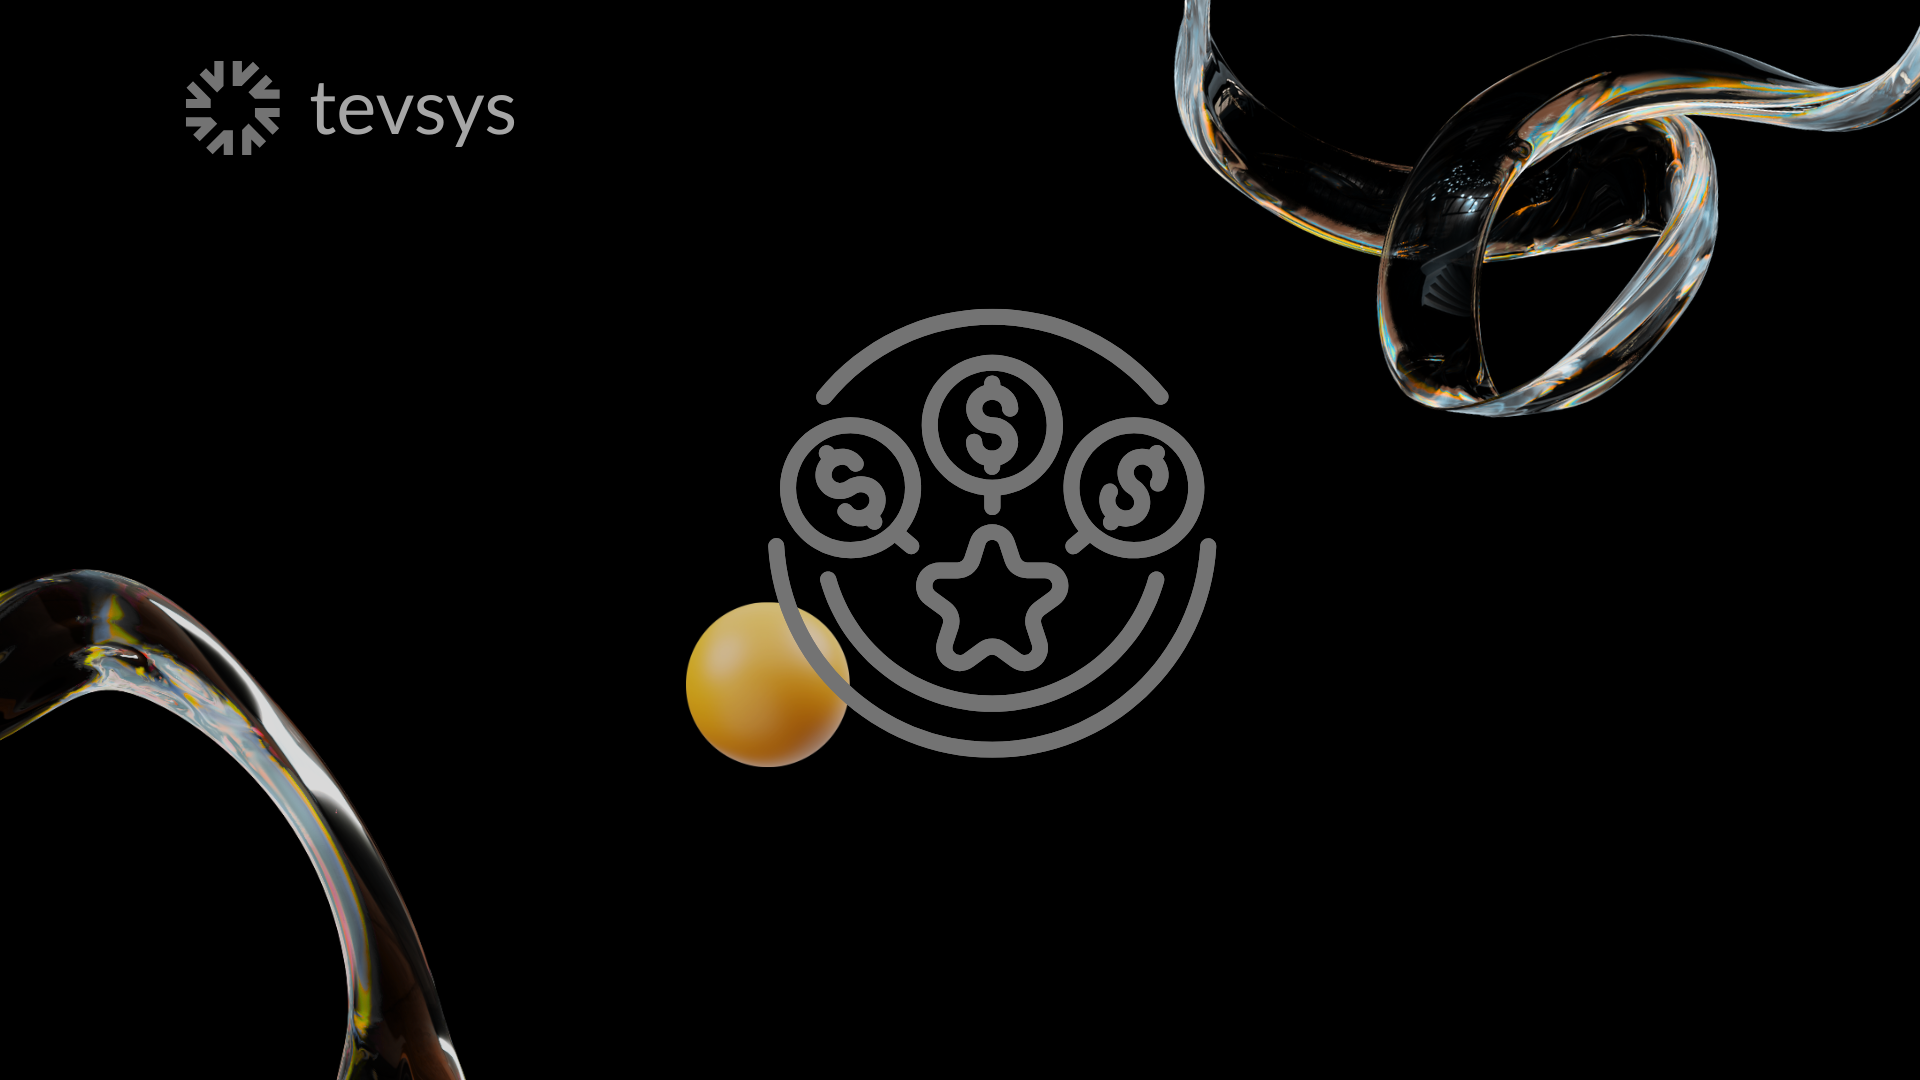
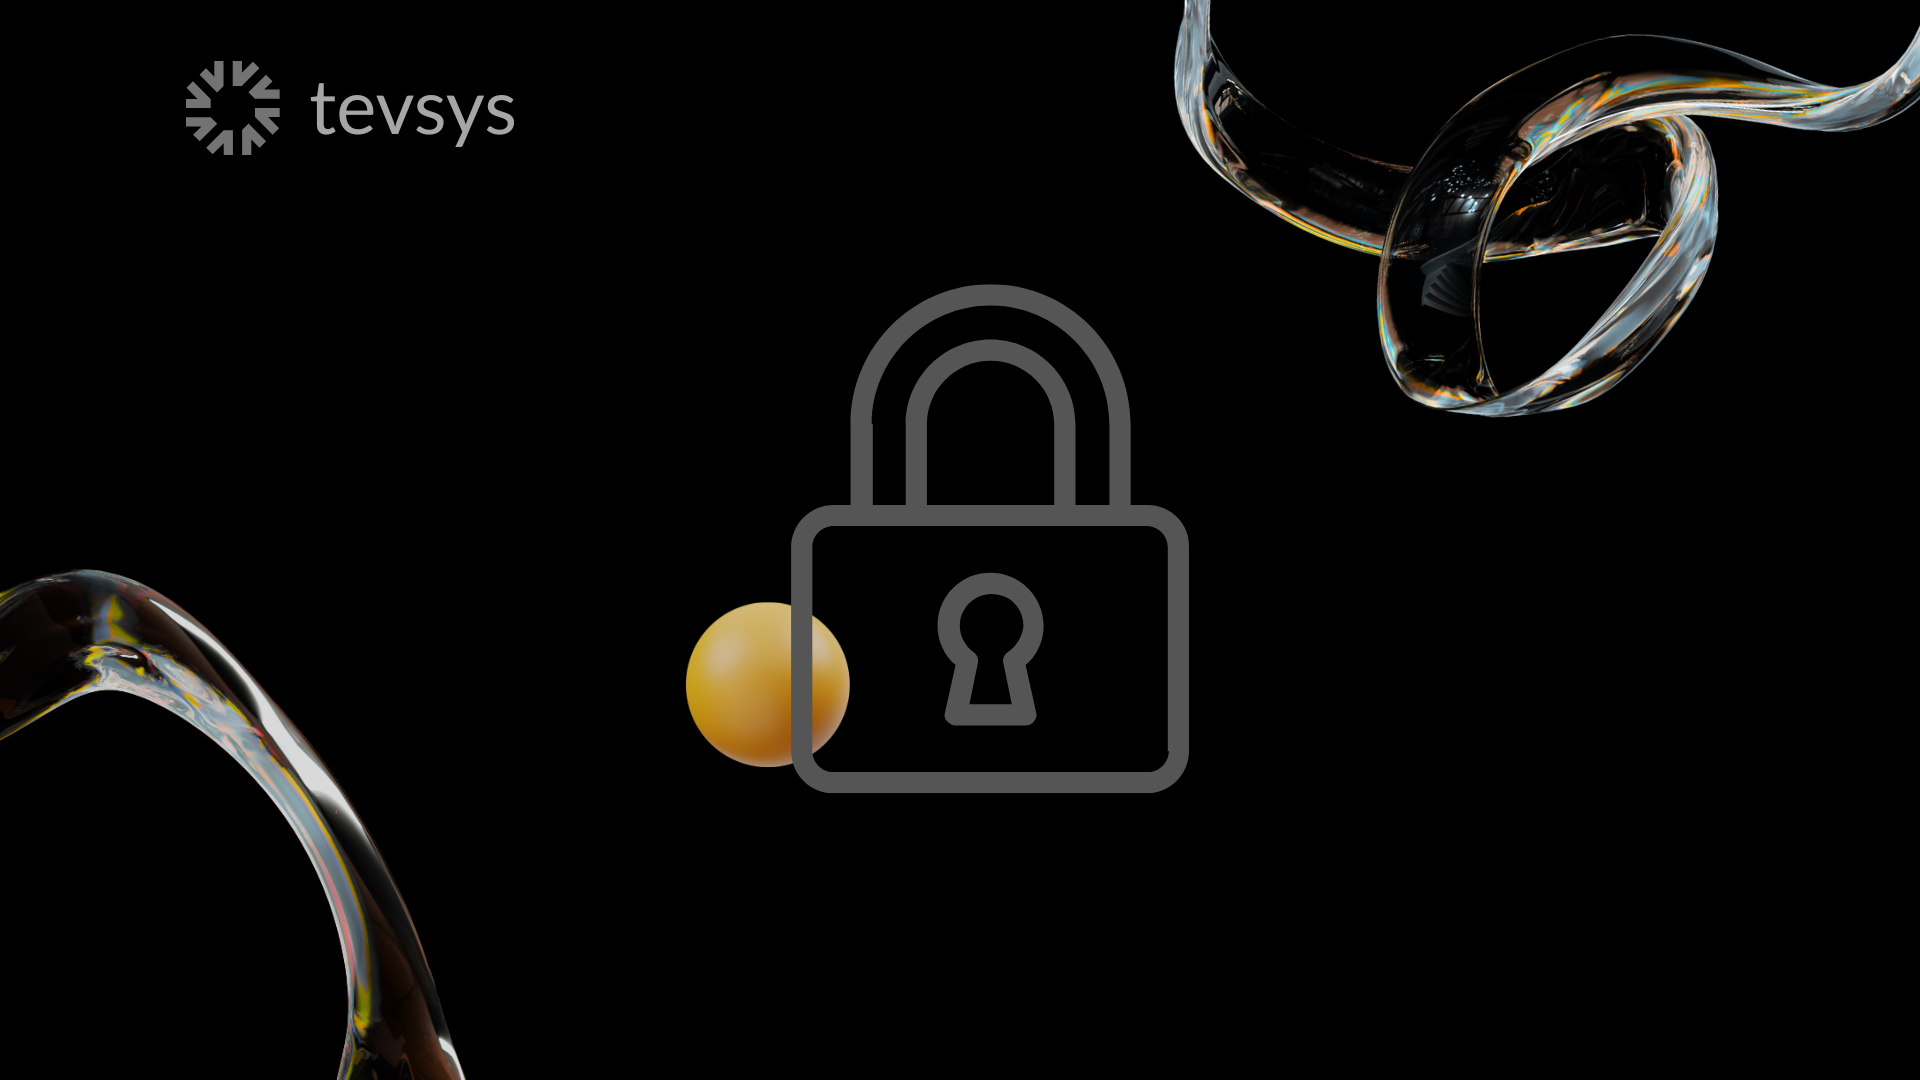
feat(web): card HyperClose — candado (card-2-hyperclose v9) + docs

Changed region(s): [[0.375, 0.2444, 0.6562, 0.7333]]

diff --git a/docs/CHANGELOG-TEVSYS.md b/docs/CHANGELOG-TEVSYS.md
@@ -17,6 +17,19 @@ Registro completo de cambios aplicados en la landing de tevsys (base Odyssey The
 
 ---
 
+## Home — card 2 (HyperClose): candado cerrado (19 abr 2026)
+
+**Motivo:** Sustituir ilustración anterior más genérica por **candado cerrado** (bloqueo coherente con HyperClose). Alineación con **hero** (candado) y con **panel / gráficos del EA**, donde el candado es señal reconocible.
+
+| Área | Detalle |
+|------|--------|
+| **Asset** | `public/assets/images/home/cards/card-2-hyperclose.png` — export usuario (`Downloads/card-2-hyperclose.png`). |
+| **Web** | `src/pages/index.astro` — **cache-bust `?v=9`**. |
+
+**Doc:** `HOME_HERO_CARDS_ITERACION_ABR2026.md` §3, `CONTENIDO_WEB_TEVSYS_LANDING.md`, `ARREGLOS_WEB_TEVSYS_TODOS_LOS_ARCHIVOS.md`.
+
+---
+
 ## Web — coherencia tipográfica, hero, cards, CTAs y micropáginas (19 abr 2026)
 
 **Objetivo:** Una sola lectura de producto (Inter + DM Sans solo en H1 home), negro unificado, CTAs demo idénticos, micropáginas alineadas y documentación al día con decisiones recientes.
@@ -27,7 +40,7 @@ Registro completo de cambios aplicados en la landing de tevsys (base Odyssey The
 | **H1 hero** | **DM Sans** solo en `.hero-title` (se probó Plus Jakarta Sans, descartada). Resto del hero y header siguen en **Inter**. Google Fonts: `DM+Sans` + `Inter` en `BaseHead.astro`. | `BaseHead.astro`, `HomeHeroSection.astro` |
 | **Imagen mano** | Viñeta más suave; filtros para nitidez; marco exterior del recorte con **animación opcional** de brillo (reduced-motion sin animación); sin marcos CSS que imiten óvalos del PNG. | `HomeHeroSection.astro` |
 | **Escáner header (home)** | **Intensidad restaurada** respecto a la iteración “menos discoteca”: más opacidad, gradientes y `animation-duration` algo más cortas (escritorio/móvil) para dar “vida” sin tocar filosofía del motion. | `global.css` |
-| **Cards home** | Nuevos PNG en `public/.../card-*.png`; **cache-bust** en `index.astro` (card 1 **`?v=8`** desde engranaje motor; otras cards según iteración). Cintas retocadas en origen (tonos ámbar/gris/negro, sin arcoíris). **Lectura:** `feature-card__value-accent` en cuerpo — **71 operativas**, **no poder seguir**, **mín. 75 % protegido** (misma línea que evidencia `0,0072 %`). | `index.astro`, assets |
+| **Cards home** | Nuevos PNG en `public/.../card-*.png`; **cache-bust** en `index.astro` (card 1 **`?v=8`** engranaje; card 2 **`?v=9`** candado HyperClose; otras según iteración). Cintas retocadas en origen (tonos ámbar/gris/negro, sin arcoíris). **Lectura:** `feature-card__value-accent` en cuerpo — **71 operativas**, **no poder seguir**, **mín. 75 % protegido** (misma línea que evidencia `0,0072 %`). | `index.astro`, assets |
 | **Tema oscuro — tipografía global** | **`[data-theme='dark']`:** `--theme-font-family-sans` y `--theme-font-family-serif` → **Inter** (antes Lato + Roboto Serif en cuerpo/títulos); micropáginas y `h1`–`h3` alineados con la home. | `theme.css` |
 | **CTAs demo** | Reglas globales: mismo **Inter 1rem**, padding, radio, colores y hover para `hero-download-btn`, `feature-cta__button`, `precios-cta__button`, `plan-card__cta` (excepto secundario outline). | `global.css`; estilos locales duplicados retirados en varias páginas |
 | **Contacto / demo** | Bloque izquierdo + columna formulario con **Inter** explícito (alineación con micro-páginas). | `contact.astro` |

diff --git a/docs/HOME_HERO_CARDS_ITERACION_ABR2026.md b/docs/HOME_HERO_CARDS_ITERACION_ABR2026.md
@@ -1,6 +1,6 @@
 # Home, hero, header y cards — iteración abril 2026 (confirmado)
 
-Documento de referencia para lo acordado y aplicado en código hasta **abr 2026**. **19 abr 2026:** coherencia tipográfica global (tema oscuro), hero (H1 DM Sans, stack `#000`), escáner con intensidad restaurada, CTAs demo unificados, respiro `.feature-hero` en micropáginas; **card 1 (Precisión)** — ilustración **engranajes + esfera** (motor / coherencia con icono EA fin de semana), **`card-1-input.png?v=8`**. Estado: **cards** con assets y lectura reforzada; **siguiente fase:** mensajes finales + ajustes menores si hace falta.
+Documento de referencia para lo acordado y aplicado en código hasta **abr 2026**. **19 abr 2026:** coherencia tipográfica global (tema oscuro), hero (H1 DM Sans, stack `#000`), escáner con intensidad restaurada, CTAs demo unificados, respiro `.feature-hero` en micropáginas; **card 1 (Precisión)** — **engranajes + esfera**, **`card-1-input.png?v=8`**; **card 2 (HyperClose)** — **candado cerrado** (alineado panel/EA + hero), **`card-2-hyperclose.png?v=9`**. Estado: **cards** con assets y lectura reforzada; **siguiente fase:** mensajes finales + ajustes menores si hace falta.
 
 **Repos / rutas:** proyecto `tevsys-landiing` (Astro). Imágenes públicas bajo `public/assets/...`.
 
@@ -48,6 +48,7 @@ Documento de referencia para lo acordado y aplicado en código hasta **abr 2026*
 | **Zona imagen** | `background-color: var(--theme-bg)`. **`img`:** mismo `filter` que la mano del hero (`brightness(0.91) saturate(0.97) contrast(1.04)`); hover un poco más vivo; **contraste ≥1** para no parecer borroso. PNG/Canva sigue siendo la base. **19 abr 2026:** renovación de assets; **card 1** — **`?v=8`** (`engranaje motor`). |
 | **Zona texto** | Fondo ~`hsl(0, 0%, 6%)` (más cerca del `--theme-bg` ~2% L); párrafos con tamaño, peso 500, color explícito; **hooks** `.feature-card__hook` con **opacity: 1** dentro de cards (la regla global con 0.9 apagaba el texto). **H3** con peso 700. **Lectura reforzada:** clase `.feature-card__value-accent` en cuerpo — **71 operativas**, **no poder seguir**, **mín. 75 % protegido** (misma línea que evidencia `0,0072 %`). |
 | **Card 1 (Precisión)** | Ilustración **engranajes + esfera ámbar** (motor / ajuste en tiempo real); alineada al **icono engranaje** del EA en configuración fin de semana (vs candado en operativa). Solo **PNG** en `<img>` (WebP opcional tras `optimize-images.js`). Sustituye diseño anterior con alcancía. |
+| **Card 2 (HyperClose)** | Ilustración **candado cerrado** + esfera; coherente con **bloqueo** de HyperClose y con candado en **panel/gráficos EA** y hero. **`card-2-hyperclose.png?v=9`**. |
 | **Planes (misma página)** | Fondo y borde/sombra alineados a las cards de valor (`hsl(0,0%,6%)`, halo suave). CTA primario alineado al estilo global de demo (ver **CTAs** abajo). |
 | **CTAs “Descargar demo” / planes** | Reglas compartidas en `global.css` para `a.hero-download-btn`, `a.feature-cta__button`, `a.precios-cta__button`, `a.plan-card__cta:not(.secondary)` — misma tipografía (**Inter 1rem**), padding, radio, color y hover; duplicados locales retirados donde aplica. |
 | **Móvil** | Imagen de card con `aspect-ratio` y `max-height` acotados. |

diff --git a/docs/ARREGLOS_WEB_TEVSYS_TODOS_LOS_ARCHIVOS.md b/docs/ARREGLOS_WEB_TEVSYS_TODOS_LOS_ARCHIVOS.md
@@ -18,7 +18,7 @@ Resumen técnico completo para revisión interna / DeepSeq.
 | `src/components/core/Header.astro` | Estilos del CTA en nav (botón blanco redondeado). **Abr 2026:** Inter, barra más baja, nav refinada; en `/` clase `tevsys-header--home-scanner` + capa escáner; motion escáner vía `global.css`. |
 | `src/components/head/BaseHead.astro` | Fuentes: **Inter**, **DM Sans** (H1 hero), Outfit según tema. **19 abr 2026:** carga alineada a tipografía hero + micropáginas. **Schema** JSON-LD, **preload** LCP hero WebP (home). |
 | `src/components/sections/heros/HomeHeroSection.astro` | Hero Mar 2026: imagen `mano robotica central web.png`, grid 1fr/2fr, alineación con «T», logo en etiqueta. Reflexión + commits: `REFLEXION_DISENO_HERO_FOOTER_MAR2026.md`, `CHANGELOG-TEVSYS.md` §27. **Abr 2026:** `hero-context-line`, ritmo vertical, halo, imagen con radio/filtros/viñeta. **19 abr 2026:** H1 **DM Sans** (`.hero-title`), mano/viñeta/marco iterados. |
-| `src/pages/index.astro` | 4 cards de valor (2x2), textos finales, imágenes nuevas, sección de planes con CTA por plan e imágenes finales. **Abr 2026:** marcado `tevsys-home-*`; Inter, cards/planes tonos gris oscuro, estructura card sin franja, legibilidad texto, card 1 PNG. **19 abr 2026:** accents `.feature-card__value-accent`; CTA planes secundario con estilo local donde aplica. **Card 1 Precisión:** `card-1-input.png` engranaje motor; **`?v=8`**. |
+| `src/pages/index.astro` | 4 cards de valor (2x2), textos finales, imágenes nuevas, sección de planes con CTA por plan e imágenes finales. **Abr 2026:** marcado `tevsys-home-*`; Inter, cards/planes tonos gris oscuro, estructura card sin franja, legibilidad texto, card 1 PNG. **19 abr 2026:** accents `.feature-card__value-accent`; CTA planes secundario con estilo local donde aplica. **Card 1 Precisión:** `card-1-input.png` engranaje; **`?v=8`**. **Card 2 HyperClose:** `card-2-hyperclose.png` candado; **`?v=9`**. |
 | `src/pages/company/contact.astro` | Contacto por plan con título simplificado + visual dinámico por `?plan=` (sin redundancia en encabezado). **19 abr 2026:** **Inter** explícita en copy + formulario (coherencia con micro-páginas). |
 | `src/components/forms/ContactForm.astro` | Badge de plan seleccionado + validación plan/capital + compatibilidad con `flow=demo`. |
 | `public/assets/images/home/cards/*` | Imágenes personalizadas de cards 1-4. |

diff --git a/docs/CONTENIDO_WEB_TEVSYS_LANDING.md b/docs/CONTENIDO_WEB_TEVSYS_LANDING.md
@@ -65,7 +65,7 @@ Documento de contenido/copy actual para revisión de equipo.
 
 ### Cards (4)
 - **UX clicable (Mar 2026):** Flecha "→" esquina inferior derecha, hover marcado (borde amarillo, sombra, elevación). Opción C híbrido.
-- **Diseño abr 2026 (confirmado en código):** Inter en la sección; bloque de texto con gris oscuro (~9% luminosidad); zona ilustración con fondo `var(--theme-bg)`; tipografía cuerpo reforzada (peso/color); card 1 puede servirse solo en PNG mientras se regenera WebP. **19 abr 2026:** card 1 (Precisión) — ilustración **engranajes + esfera** (motor; coherente con icono EA fin de semana); **cache-bust `card-1-input.png?v=8`**; **acentos de lectura** `.feature-card__value-accent` (71 operativas; no poder seguir; mín. 75 % protegido). Detalle: `HOME_HERO_CARDS_ITERACION_ABR2026.md`.
+- **Diseño abr 2026 (confirmado en código):** Inter en la sección; bloque de texto con gris oscuro (~9% luminosidad); zona ilustración con fondo `var(--theme-bg)`; tipografía cuerpo reforzada (peso/color); card 1 puede servirse solo en PNG mientras se regenera WebP. **19 abr 2026:** card 1 (Precisión) — **engranajes + esfera**; **`card-1-input.png?v=8`**; card 2 (HyperClose) — **candado cerrado**; **`card-2-hyperclose.png?v=9`**; **acentos de lectura** `.feature-card__value-accent` (71 operativas; no poder seguir; mín. 75 % protegido). Detalle: `HOME_HERO_CARDS_ITERACION_ABR2026.md`.
 - **CTAs demo (19 abr 2026):** mismas reglas globales para botones demo en hero, features, precios y planes (Inter, padding, hover) — `global.css`; ver `CHANGELOG-TEVSYS.md`.
 - **Tema oscuro — tipografía global (19 abr 2026):** en `[data-theme='dark']`, cuerpo y títulos de micropáginas usan **Inter** vía `theme.css` (antes Lato + Roboto Serif en variables de tema).
 - **Micropáginas — respiro (19 abr 2026):** espaciado bajo `.feature-hero` unificado en `global.css` (mismo criterio en todas las guías).

diff --git a/docs/CARDS-NEXT-PHASE.md b/docs/CARDS-NEXT-PHASE.md
@@ -7,7 +7,7 @@ Este documento reemplaza el enfoque inicial de placeholders y recoge el estado a
 - **Documentación única:** `docs/HOME_HERO_CARDS_ITERACION_ABR2026.md` (hero, header, cards, motion escáner, tema oscuro, CTAs, micropáginas).
 - **Changelog:** `CHANGELOG-TEVSYS.md` (entrada “Home, hero, header y cards — abr 2026” + **“Web — coherencia tipográfica…” — 19 abr 2026**).
 - **Hecho:** refinamiento visual y copy en home (cards + planes en misma página).
-- **19 abr 2026 (cerrado en código + docs):** stack hero **`#000`**; **DM Sans** solo en H1 home; imágenes cards renovadas (**card 1** `card-1-input.png` engranaje motor + **`?v=8`**); **Inter** en tema oscuro global (`theme.css`); CTAs demo unificados (`global.css`); contacto con **Inter** explícita; escáner header con **intensidad restaurada** (duraciones 29,5s / 28s / 23,5s); **`.feature-hero`** con respiro global; **Precisión:** orden demos volatilidad → Nasdaq → cuenta pequeña → logs.
+- **19 abr 2026 (cerrado en código + docs):** stack hero **`#000`**; **DM Sans** solo en H1 home; **card 1** engranaje **`?v=8`**; **card 2** HyperClose candado **`?v=9`**; **Inter** en tema oscuro global (`theme.css`); CTAs demo unificados (`global.css`); contacto con **Inter** explícita; escáner header con **intensidad restaurada** (duraciones 29,5s / 28s / 23,5s); **`.feature-hero`** con respiro global; **Precisión:** orden demos volatilidad → Nasdaq → cuenta pequeña → logs.
 - **Siguiente (equipo):** decidir **qué cards** y mensajes definitivos en home; seguir **micropáginas** alineadas; **revisión móvil** (hero feo / escáner) cuando se priorice.
 
 ---
